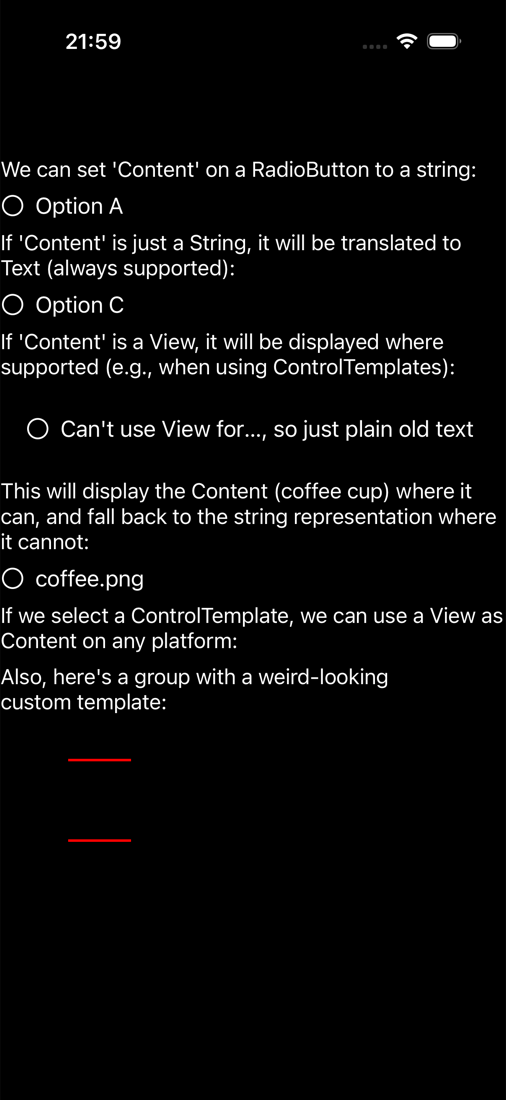
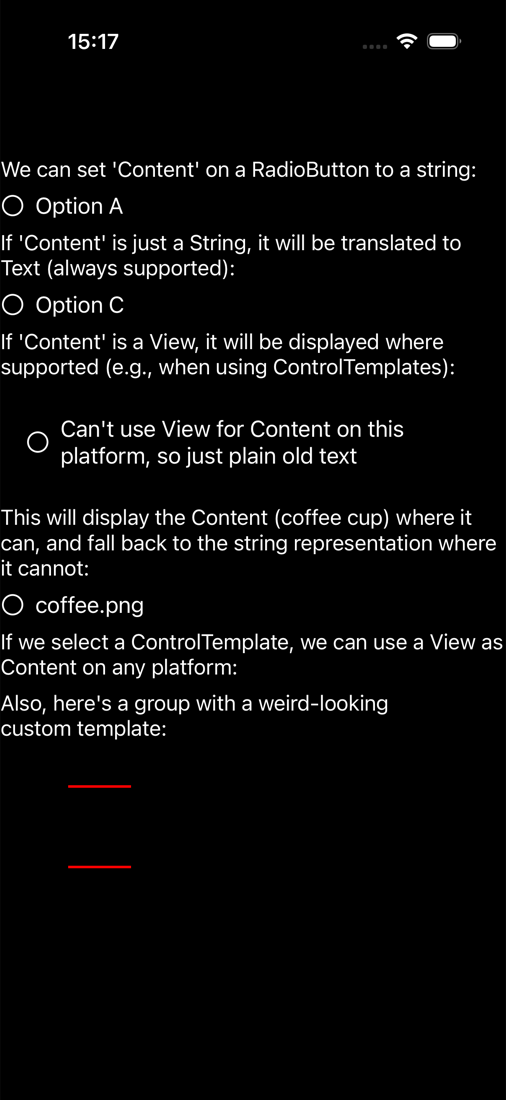
fix(ios,parity): radio_button_content — wrap long View-fallback title (measure)
The View-fallback RadioButton title truncated to one line. Fix: titleLabel
numberOfLines=0/WordWrap in map_content, AND get_desired_size now recomputes the
wrapped title height via boundingRect — UIButton sizeThatFits underestimates a
wrapped multi-line title (legacy setTitle path stays single-line), so the control
measured 1-line-tall and clamped the wrap. On-sim light+dark: full text now wraps
to 2 lines, matching MAUI. diff->minor (residual: dark coffee-cup template
hardcoded-black shapes, below MAUI crop). Diff 13->12.

diff --git a/port/cpp/src/platform/ios/radio_button_handler.mm b/port/cpp/src/platform/ios/radio_button_handler.mm
@@ -13,6 +13,7 @@
 #import <UIKit/UIKit.h>
 #import <objc/runtime.h>
 
+#include <algorithm>
 #include <cmath>
 #include <memory>
 #include <string>
@@ -217,6 +218,11 @@ namespace maui::core
         NSString* const raw = [NSString stringWithUTF8String:content.c_str()];
         UIButton* const button = as_button(platform->native);
         [button setTitle:(raw != nil ? raw : @"") forState:UIControlStateNormal];
+        // Long titles WRAP rather than truncate (MAUI wraps the View-fallback RadioButton's text to
+        // multiple lines); the default UIButton titleLabel is single-line + tail-truncated. The matching
+        // multi-line height is reported by get_desired_size so the control grows to fit.
+        button.titleLabel.numberOfLines = 0;
+        button.titleLabel.lineBreakMode = NSLineBreakByWordWrapping;
         refresh_radio_title_formatting(button, view);
     }
 
@@ -298,8 +304,33 @@ namespace maui::core
         }
         const CGFloat width = std::isfinite(width_constraint) ? static_cast<CGFloat>(width_constraint) : CGFLOAT_MAX;
         const CGFloat height = std::isfinite(height_constraint) ? static_cast<CGFloat>(height_constraint) : CGFLOAT_MAX;
-        const CGSize fitting = [as_button(platform->native) sizeThatFits:CGSizeMake(width, height)];
-        return {fitting.width, fitting.height};
+        UIButton* const button = as_button(platform->native);
+        const CGSize fitting = [button sizeThatFits:CGSizeMake(width, height)];
+        maui::graphics::size result{fitting.width, fitting.height};
+        // UIButton's sizeThatFits underestimates a WRAPPED multi-line title (the legacy setTitle path stays
+        // single-line). When the width is bounded and the title is wider than the available text column,
+        // recompute its wrapped height via boundingRect so the radio grows to fit instead of truncating —
+        // the titleLabel is configured numberOfLines=0/WordWrap in map_content.
+        NSString* const title = [button titleForState:UIControlStateNormal];
+        if (std::isfinite(width_constraint) && title.length > 0)
+        {
+            UIFont* const font = button.titleLabel.font != nil ? button.titleLabel.font
+                                                               : [UIFont systemFontOfSize:UIFont.buttonFontSize];
+            NSDictionary* const attrs = @{NSFontAttributeName : font};
+            const CGSize one_line = [title sizeWithAttributes:attrs];
+            // `fitting` is the single-line button width; what it adds over the bare title is the chrome
+            // (indicator + content/title insets). Subtract that to get the text column at this constraint.
+            const CGFloat reserved = std::max<CGFloat>(0, fitting.width - one_line.width);
+            const CGFloat text_width = std::max<CGFloat>(1, width - reserved);
+            const CGRect wrapped =
+                [title boundingRectWithSize:CGSizeMake(text_width, CGFLOAT_MAX)
+                                    options:NSStringDrawingUsesLineFragmentOrigin | NSStringDrawingUsesFontLeading
+                                 attributes:attrs
+                                    context:nil];
+            const CGFloat chrome_height = std::max<CGFloat>(0, fitting.height - std::ceil(one_line.height));
+            result.height = std::max<double>(result.height, std::ceil(wrapped.size.height) + chrome_height);
+        }
+        return result;
     }
 
     void radio_button_handler::platform_arrange(const maui::graphics::rect& frame)

diff --git a/port/cpp/docs/comparison/README.md b/port/cpp/docs/comparison/README.md
@@ -2,7 +2,7 @@
 
 Theme-matched iOS comparison: each page rendered by **real .NET MAUI** vs the **C++ port**, on the same iPhone 17 simulator, compared **light-vs-light** and **dark-vs-dark**. Both stacks render native-default controls + the system font (the C# app's `dotnet new maui` default `Styles.xaml` + OpenSans are stripped; appearance forced via `MAUI_THEME` / `MAUI_APPEARANCE`). Goal: pixel-perfect parity, fixed example-by-example.
 
-**Progress: 51 / 172 🟢 matched** · 107 🟡 minor · 14 🔴 diff · 0 ⬜ pending
+**Progress: 51 / 172 🟢 matched** · 108 🟡 minor · 13 🔴 diff · 0 ⬜ pending
 
 **Flags: 9 ⚠ broken MAUI reference captures (re-shoot needed) · 14 🎬 motion/effect pages needing an animated GIF to judge.**
 
@@ -133,7 +133,7 @@ The **AI review** column is an independent automated second opinion (Gemini by d
 | 115 | Radio Button Group Binding | 🟢⚠<br>L:match<br>D:match | 🔴<br>L:diff<br>D:diff<br>_diff_<br><sub>gemini-3.1-flash-lite</sub> | <img src="csharp_ios_light/radio_button_group_binding.png" height="360"> | <img src="cpp_ios_light/radio_button_group_binding.png" height="360"> | <img src="csharp_ios_dark/radio_button_group_binding.png" height="360"> | <img src="cpp_ios_dark/radio_button_group_binding.png" height="360"> |
 | 116 | Radio Button Group Gallery | 🟡<br>L:minor<br>D:minor | 🔴<br>L:diff<br>D:diff<br>_diff_<br><sub>gemini-3.1-flash-lite</sub> | <img src="csharp_ios_light/radio_button_group_gallery.png" height="360"> | <img src="cpp_ios_light/radio_button_group_gallery.png" height="360"> | <img src="csharp_ios_dark/radio_button_group_gallery.png" height="360"> | <img src="cpp_ios_dark/radio_button_group_gallery.png" height="360"> |
 | 117 | Radio Button Border | 🟡<br>L:minor<br>D:minor | 🔴<br>L:diff<br>D:diff<br>_diff_<br><sub>gemini-3.1-flash-lite</sub> | <img src="csharp_ios_light/radio_button_border.png" height="360"> | <img src="cpp_ios_light/radio_button_border.png" height="360"> | <img src="csharp_ios_dark/radio_button_border.png" height="360"> | <img src="cpp_ios_dark/radio_button_border.png" height="360"> |
-| 118 | Radio Button Content | 🔴<br>L:minor<br>D:diff | 🔴<br>L:diff<br>D:diff<br>_diff_<br><sub>gemini-3.1-flash-lite</sub> | <img src="csharp_ios_light/radio_button_content.png" height="360"> | <img src="cpp_ios_light/radio_button_content.png" height="360"> | <img src="csharp_ios_dark/radio_button_content.png" height="360"> | <img src="cpp_ios_dark/radio_button_content.png" height="360"> |
+| 118 | Radio Button Content | 🟡<br>L:minor<br>D:minor | 🔴<br>L:diff<br>D:diff<br>_diff_<br><sub>gemini-3.1-flash-lite</sub> | <img src="csharp_ios_light/radio_button_content.png" height="360"> | <img src="cpp_ios_light/radio_button_content.png" height="360"> | <img src="csharp_ios_dark/radio_button_content.png" height="360"> | <img src="cpp_ios_dark/radio_button_content.png" height="360"> |
 | 119 | Radio Content Properties | 🟡<br>L:minor<br>D:minor | 🔴<br>L:diff<br>D:diff<br>_diff_<br><sub>gemini-3.1-flash-lite</sub> | <img src="csharp_ios_light/radio_content_properties.png" height="360"> | <img src="cpp_ios_light/radio_content_properties.png" height="360"> | <img src="csharp_ios_dark/radio_content_properties.png" height="360"> | <img src="cpp_ios_dark/radio_content_properties.png" height="360"> |
 | 120 | Radio Template From Style | 🟢⚠<br>L:match<br>D:match | 🔴<br>L:diff<br>D:diff<br>_diff_<br><sub>gemini-3.1-flash-lite</sub> | <img src="csharp_ios_light/radio_template_from_style.png" height="360"> | <img src="cpp_ios_light/radio_template_from_style.png" height="360"> | <img src="csharp_ios_dark/radio_template_from_style.png" height="360"> | <img src="cpp_ios_dark/radio_template_from_style.png" height="360"> |
 | 121 | Scattered Radio Button | 🟡<br>L:minor<br>D:minor | 🟡<br>L:minor<br>D:minor<br>_minor_<br><sub>gemini-3.1-flash-lite</sub> | <img src="csharp_ios_light/scattered_radio_button.png" height="360"> | <img src="cpp_ios_light/scattered_radio_button.png" height="360"> | <img src="csharp_ios_dark/scattered_radio_button.png" height="360"> | <img src="cpp_ios_dark/scattered_radio_button.png" height="360"> |
@@ -657,9 +657,8 @@ Concrete, per-theme notes for every page with a diff, a broken reference, or a m
 - **Light:** FIXED (iOS radio handler: left-align + ring↔label gap + VisualElement background). Now four left-aligned bordered rows: Option 1 red border over YELLOW fill, Option 2 YELLOW fill, Option 3 plain, Option 4 green border with the selected dot — matching MAUI. Residual minor: MAUI's rows are a little taller (more internal content padding) than the port's.
 - **Dark:** Same as light — yellow fill + red/green borders + selection all render correctly in dark. Residual minor: rows slightly shorter than MAUI; white label text on the yellow fill is lower-contrast (text follows the dynamic dark label color).
 
-### 118. Radio Button Content — 🔴 (L:minor / D:diff)
-- **Light:** FIXED (iOS radio handler): each radio row is left-aligned with a gap between ring and label (Option A, Option C, the View-fallback radio, coffee.png). Residual minor: the long View-fallback content truncates to one line ('Can't use View for…, so just plain old text') where MAUI wraps it to two lines.
-- **Dark:** Radio rows now left-aligned with gaps (same fix as light). SEPARATE residual diff: the custom coffee-cup ControlTemplate at the bottom uses hardcoded BLACK shapes (cup glyph + one underline) that are invisible on the dark background — only the red underline renders. Element drops out in dark (a theme-color bug in that custom template, not the radio layout).
+### 118. Radio Button Content — 🟡 (L:minor / D:minor)
+- **Both themes:** View-fallback RadioButton title now WRAPS to its full text instead of truncating ('Can't use View for Content on this / platform, so just plain old text', 2 lines) — matches MAUI in both light+dark. Fix: radio_button_handler.mm map_content sets titleLabel numberOfLines=0/WordWrap + get_desired_size recomputes the wrapped title height via boundingRect (UIButton sizeThatFits underestimates a wrapped multi-line title, so the control now grows to fit). Residual (dark only, lower priority, below MAUI's crop): the bottom custom coffee-cup ControlTemplate uses hardcoded-black shapes that are invisible on the dark background (sample-design, only the red group lines show).
 
 ### 119. Radio Content Properties — 🟡 (L:minor / D:minor)
 - **Light:** All content rows render correctly in both (colored Option A italic-red, Option B bold-blue, green 'It's a button inside a button' rows). C++ uses denser line spacing so it shows all rows fully on one screen while MAUI's last rows are cut off; C++ radio glyph circles sit immediately left of their text (near-centered) vs MAUI's far-left aligned larger circles. Cosmetic spacing/glyph-position only.
